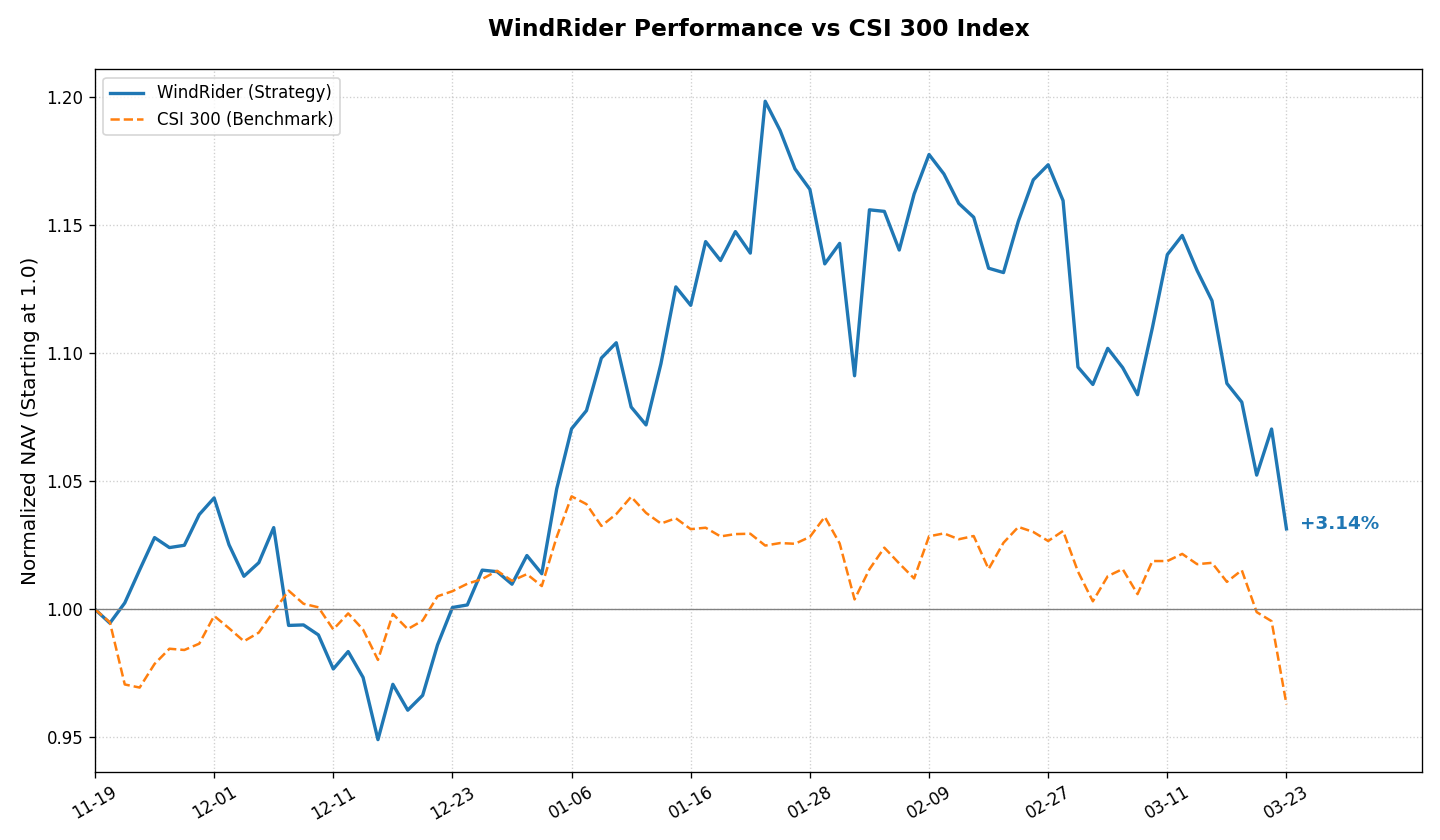
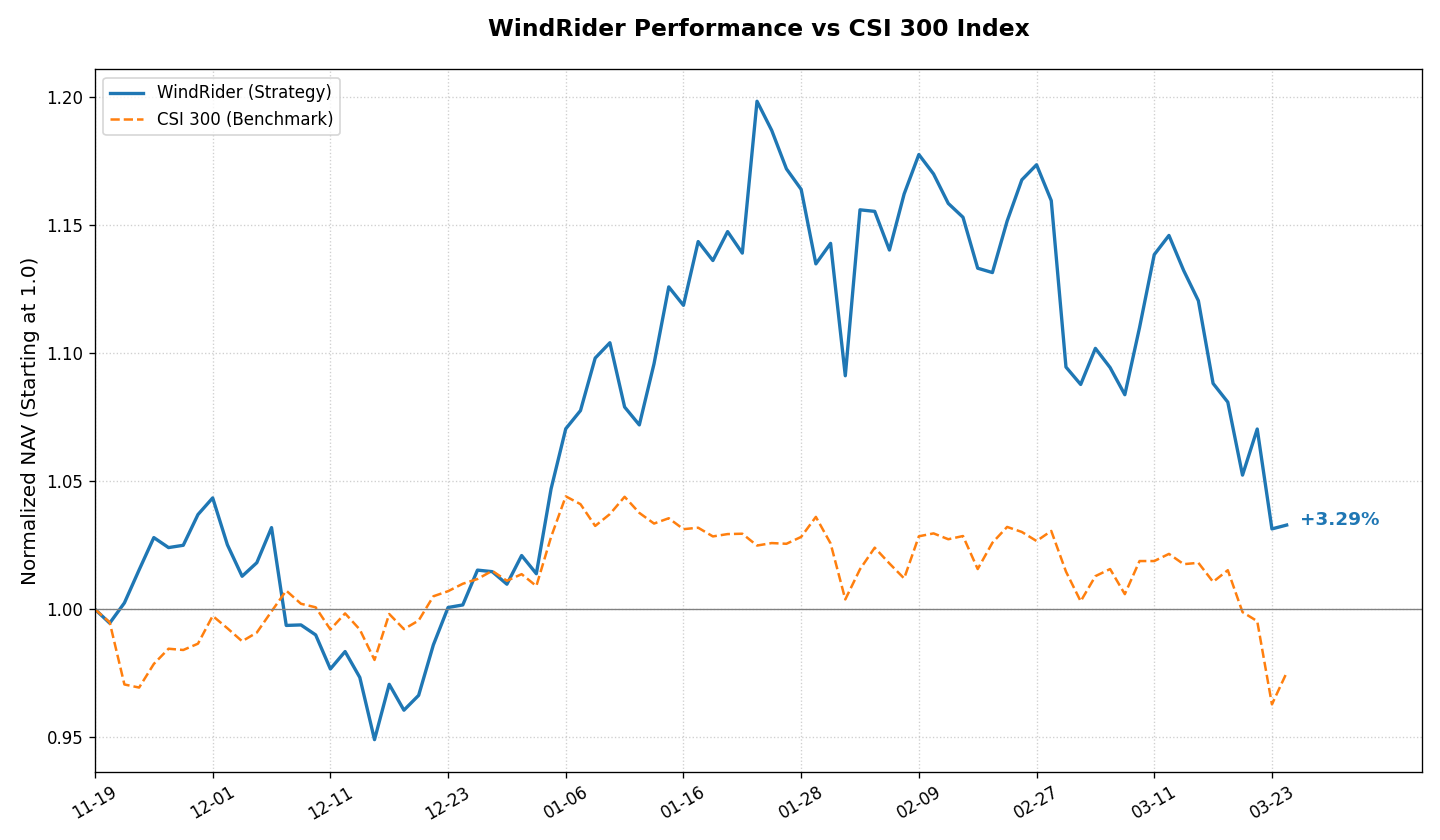
Updated Hugo site content

diff --git a/content/investment/position.md b/content/investment/position.md
@@ -1,8 +1,8 @@
 +++
 title = "如山-股票组合持仓 /// Position"
 summary = "主动管理型股票组合。对标沪深300指数，采用基本面选股策略。"
-date = 2026-03-23T15:12:05+08:00
-lastmod = 2026-03-23T15:12:05+08:00
+date = 2026-03-24T15:12:04+08:00
+lastmod = 2026-03-24T15:12:04+08:00
 draft = false
 description = "如山股票组合持仓"
 +++
@@ -12,29 +12,29 @@ description = "如山股票组合持仓"
 
 ### 风舵股票组合 &nbsp;&nbsp;<span style="color: #E63946; font-weight: bold;">/</span><span style="color: #F1A73E; font-weight: bold;">/</span><span style="color: #000091; font-weight: bold;">/</span>&nbsp;&nbsp; 每日持仓
 WindRider Equity Portfolio <br>
-净值简报 <small>(截至: 2026-03-23)</small>
+净值简报 <small>(截至: 2026-03-24)</small>
 
 |  |  |
 | :--- | :--- |
 | **指数代码：** | WDR.EQ |
 | **成立日期：** | 2025-11-19 |
-| **最新净值：** | 1.0314 |
-| **今日涨跌：** | -3.64% |
+| **最新净值：** | 1.0329 |
+| **今日涨跌：** | +0.15% |
 
 ===========================
 
 | 核心表现 | |
 | :--- | :--- |
-| **累计收益：** | +3.14% |
-| **年化收益：** | +9.53% |
+| **累计收益：** | +3.29% |
+| **年化收益：** | +9.91% |
 | **最大回撤：** | -13.94% |
-| **基准点位：** | 4418.00 (CSI300) |
-| **策略状态：** | 已运行 125 天 |
+| **基准点位：** | 4474.72 (CSI300) |
+| **策略状态：** | 已运行 126 天 |
 
 ### 持仓明细
 | 股票名称 | 成本价 | 现价 | 盈亏 | 占比 |
 | :--- | :--- | :--- | :--- | :--- | :--- |
-| 先导智能 <small>300450</small> | 52.17 | 47.19 | <span style="color:#2A9D8F">-9.54%</span> | 97.99% |
+| 先导智能 <small>300450</small> | 52.17 | 47.26 | <span style="color:#2A9D8F">-9.41%</span> | 97.99% |
 
 <br>
 
